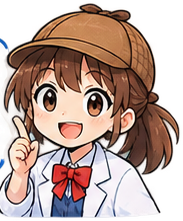
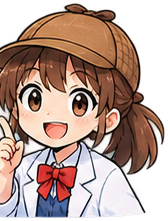
実験探偵まりか：お題を「今回のミッション」として大きく出す

diff --git a/32_jikken_tantei_marika/index.html b/32_jikken_tantei_marika/index.html
@@ -80,11 +80,25 @@ button{font-family:inherit;color:inherit;cursor:pointer}
 .hud{display:flex;align-items:center;gap:10px;margin-bottom:10px}
 .hud h2{font-size:.95rem;margin:0;font-weight:900;letter-spacing:.06em;flex:1;line-height:1.4}
 .hud h2 small{display:block;font-size:.66rem;color:var(--sub);font-weight:500;letter-spacing:.1em}
-.mission{display:flex;gap:10px;align-items:flex-start;margin-bottom:12px}
+.mission{position:relative;margin:18px 0 14px;padding:26px 16px 14px;border-radius:22px;border:4px solid #5b3417;
+  background:repeating-linear-gradient(135deg,rgba(255,255,255,.18) 0 12px,transparent 12px 24px),linear-gradient(160deg,#FFE9A8,#FFD166 60%,#F6B93B);
+  box-shadow:0 7px 0 #5b3417,0 14px 26px rgba(90,50,10,.25)}
+.mission.in{animation:stamp .55s cubic-bezier(.2,1.6,.4,1)}
+@keyframes stamp{0%{transform:scale(1.25) rotate(-3deg);opacity:0}60%{opacity:1}100%{transform:none}}
+.mlabel{position:absolute;left:50%;top:-20px;transform:translateX(-50%) rotate(-2deg);white-space:nowrap;display:flex;align-items:center;gap:6px;
+  background:#D6342A;color:#fff;font-family:"Mochiy Pop One",sans-serif;font-size:clamp(1rem,4.6vw,1.3rem);letter-spacing:.06em;
+  padding:6px 18px;border-radius:12px;border:3px solid #5b3417;box-shadow:0 4px 0 #5b3417}
+.mission.in .mlabel{animation:wob .9s .35s ease}
+@keyframes wob{0%,100%{transform:translateX(-50%) rotate(-2deg)}30%{transform:translateX(-50%) rotate(4deg) scale(1.08)}60%{transform:translateX(-50%) rotate(-5deg)}}
+.mlabel .mno{font-size:.7em;background:#fff;color:#D6342A;border-radius:999px;padding:0 8px;margin-left:4px}
+.mq{margin:6px 0 12px;text-align:center;font-family:"Mochiy Pop One",sans-serif;font-weight:400;line-height:1.45;
+  font-size:clamp(1.3rem,5.6vw,1.9rem);color:#3A1E08;text-wrap:balance;word-break:keep-all;overflow-wrap:anywhere;
+  text-shadow:2px 2px 0 #fff,-2px -2px 0 #fff,2px -2px 0 #fff,-2px 2px 0 #fff,0 2px 0 #fff,2px 0 0 #fff,0 -2px 0 #fff,-2px 0 0 #fff}
+.mfoot{display:flex;gap:10px;align-items:flex-end}
 .mission .face{flex:none;width:84px}
 .mission .face img,.ovc .face img{width:100%;height:auto;display:block}
-.bubble{position:relative;flex:1;background:#FFF8EA;color:#3A2A18;border-radius:16px;padding:10px 14px;font-size:.88rem;border:3px solid #5b3417}
-.bubble::before{content:"";position:absolute;left:-12px;top:20px;border:8px solid transparent;border-right-color:#5b3417}
+.bubble{position:relative;flex:1;background:#FFFDF6;color:#3A2A18;border-radius:16px;padding:8px 12px;font-size:.84rem;border:3px solid #5b3417;line-height:1.6}
+.bubble::before{content:"";position:absolute;left:-12px;bottom:16px;border:8px solid transparent;border-right-color:#5b3417}
 .bubble .who{font-size:.68rem;font-weight:900;color:#8d5528;letter-spacing:.1em}
 .bubble .q{display:block;margin-top:6px;font-weight:900;font-size:1.02rem;color:#B0341E;line-height:1.5}
 .card{background:var(--panel);border:2px solid var(--line);border-radius:18px;padding:12px;margin-bottom:12px;box-shadow:0 3px 0 #EADFCC}
@@ -184,9 +198,13 @@ button{font-family:inherit;color:inherit;cursor:pointer}
     <h2 id="cTitle"></h2>
   </div>
 
-  <div class="mission">
-    <div class="face" id="mFace"></div>
-    <div class="bubble"><span class="who">探偵まりか</span><div id="mStory"></div><span class="q" id="mQ"></span></div>
+  <div class="mission" id="mission">
+    <div class="mlabel"><span class="mic">🔍</span>今回の ミッション<span class="mno" id="mNo"></span></div>
+    <p class="mq" id="mQ"></p>
+    <div class="mfoot">
+      <div class="face" id="mFace"></div>
+      <div class="bubble"><span class="who">探偵まりか</span><div id="mStory"></div></div>
+    </div>
   </div>
 
   <div class="card" id="c1">
@@ -527,7 +545,9 @@ function start(i){
   $("title").style.display="none";$("play").style.display="block";$("board").style.display="block";
   $("cTitle").innerHTML='<small>じけんファイル '+(i+1)+' ／ '+CASES.length+'</small>'+c.t;
   $("mFace").innerHTML=marika("");
-  $("mStory").textContent=c.story;$("mQ").textContent=c.q;
+  $("mStory").textContent=c.story;$("mQ").textContent=c.q;$("mNo").textContent="No."+(i+1);
+  var m=$("mission");m.classList.remove("in");void m.offsetWidth;m.classList.add("in");
+  if(i===st.i) tone([392,523,659],.09);
   $("tools").innerHTML=c.tools.map(function(t){var T=TOOLS[t];return '<button class="tool" data-t="'+t+'"><img src="art/'+T.im+'.png" alt="">'+T.n+'</button>';}).join("");
   paintStep();paintSus();paintSum();window.scrollTo(0,0);
 }
